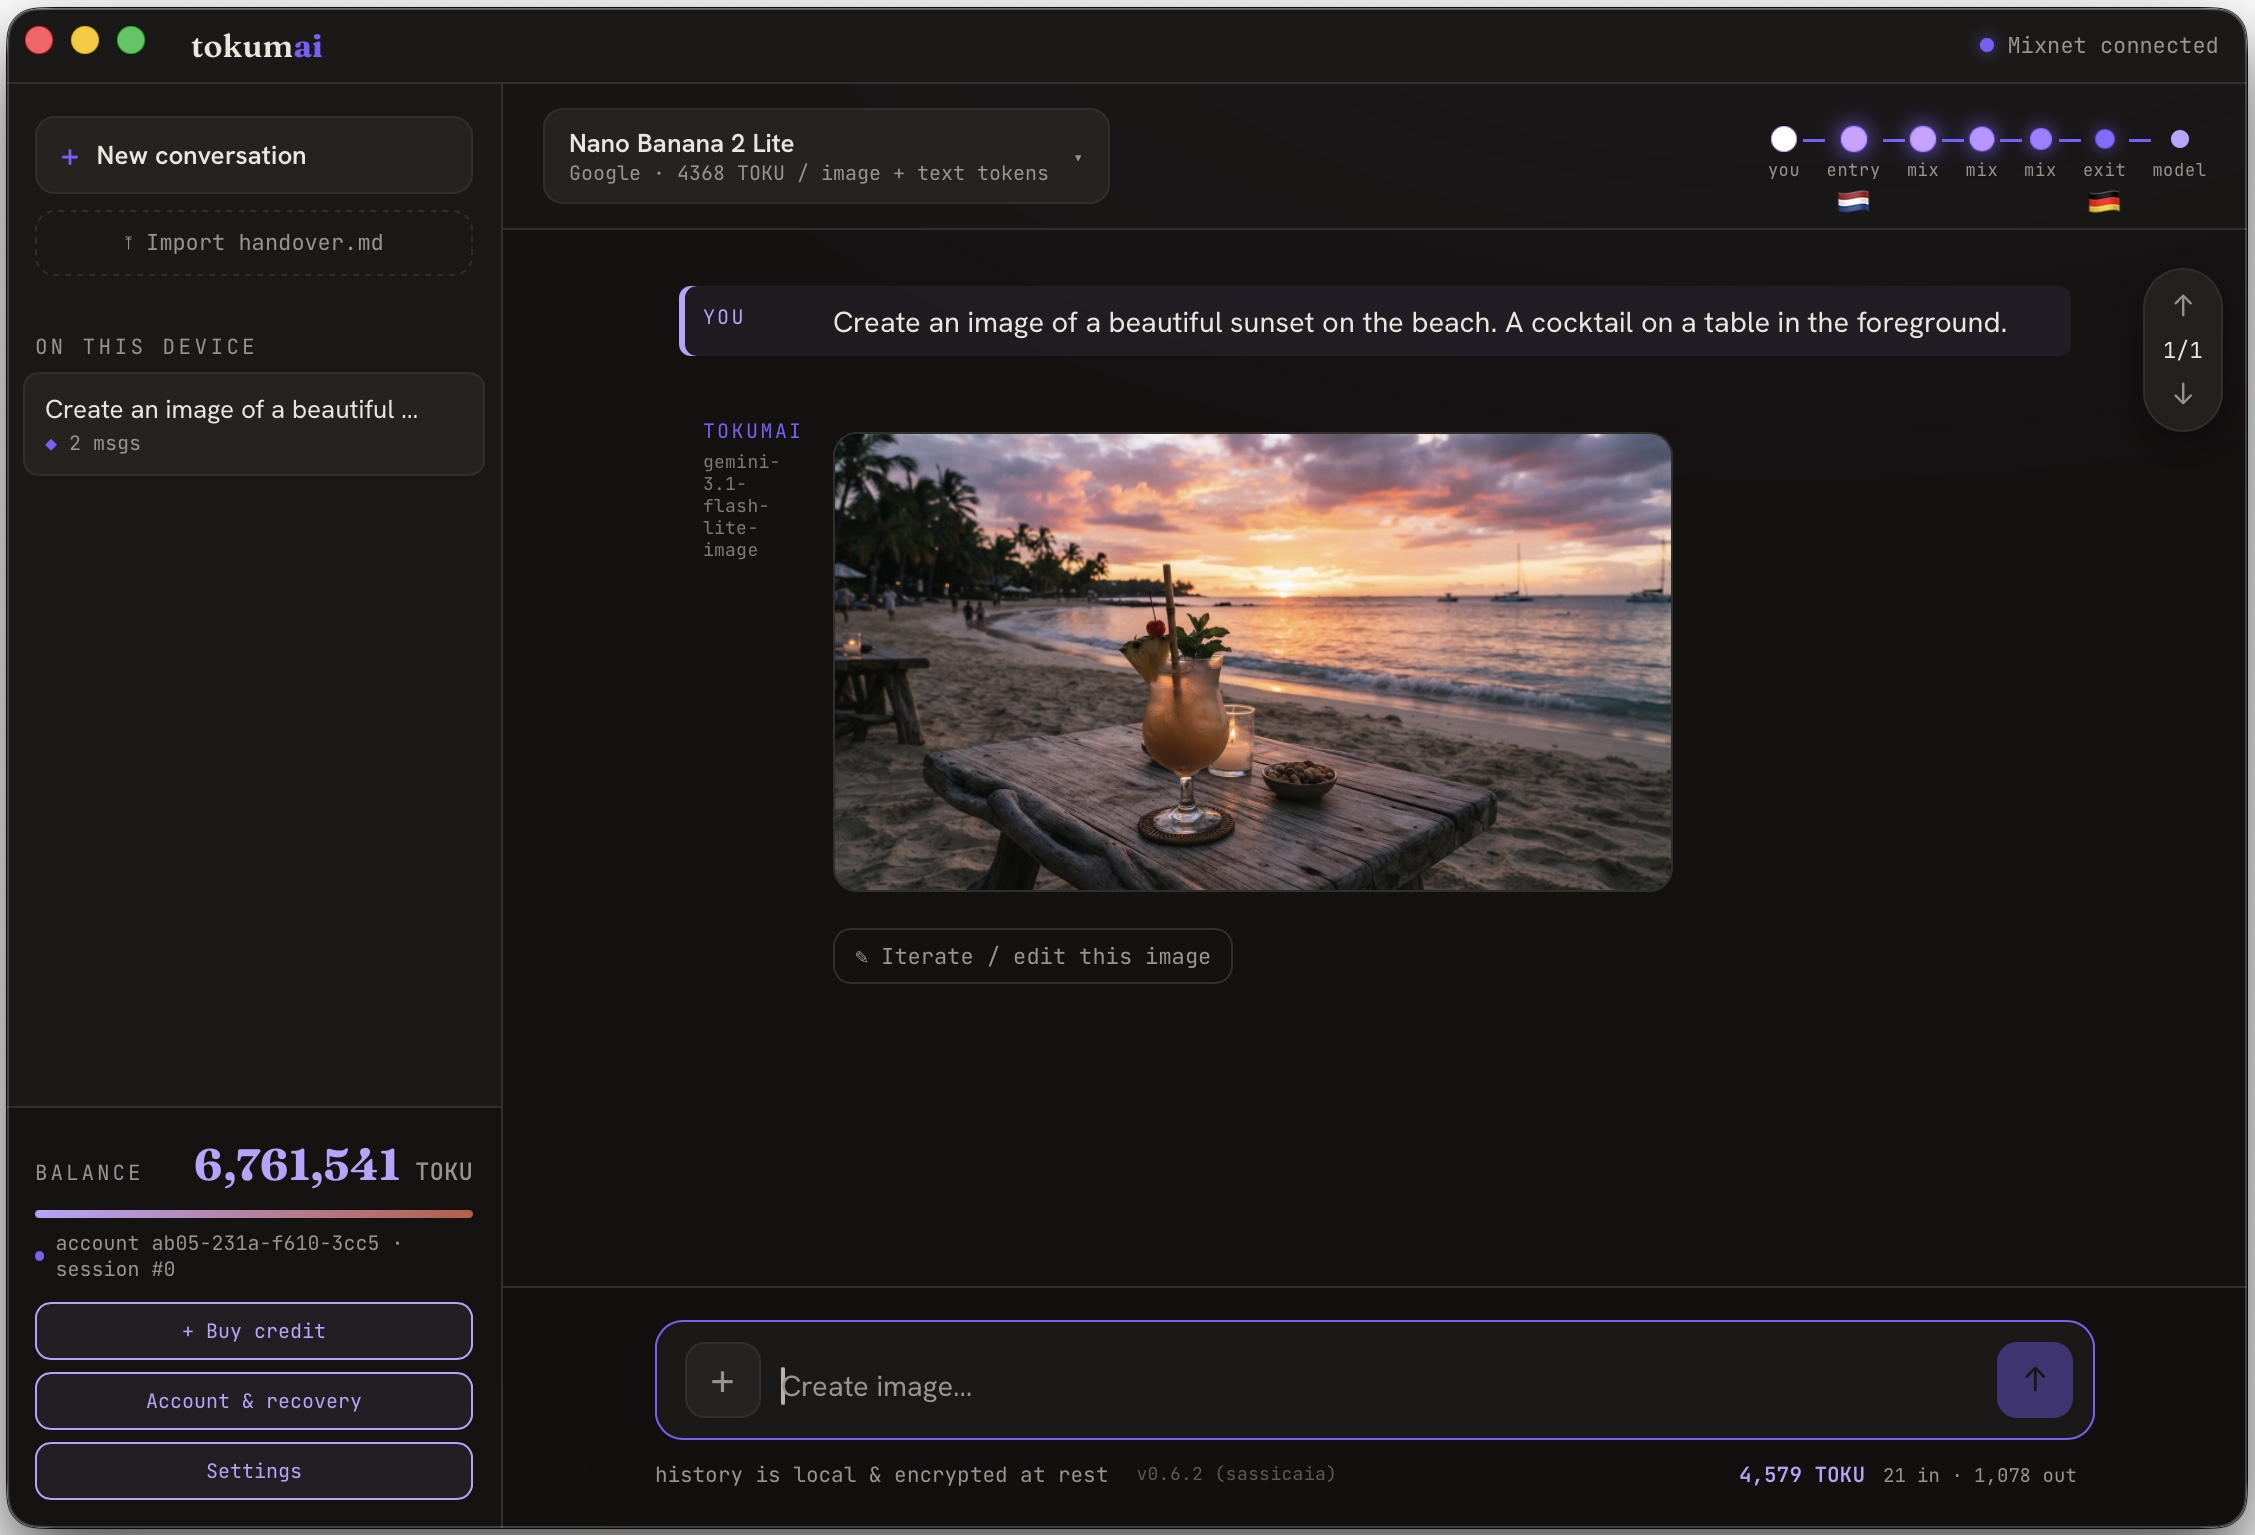
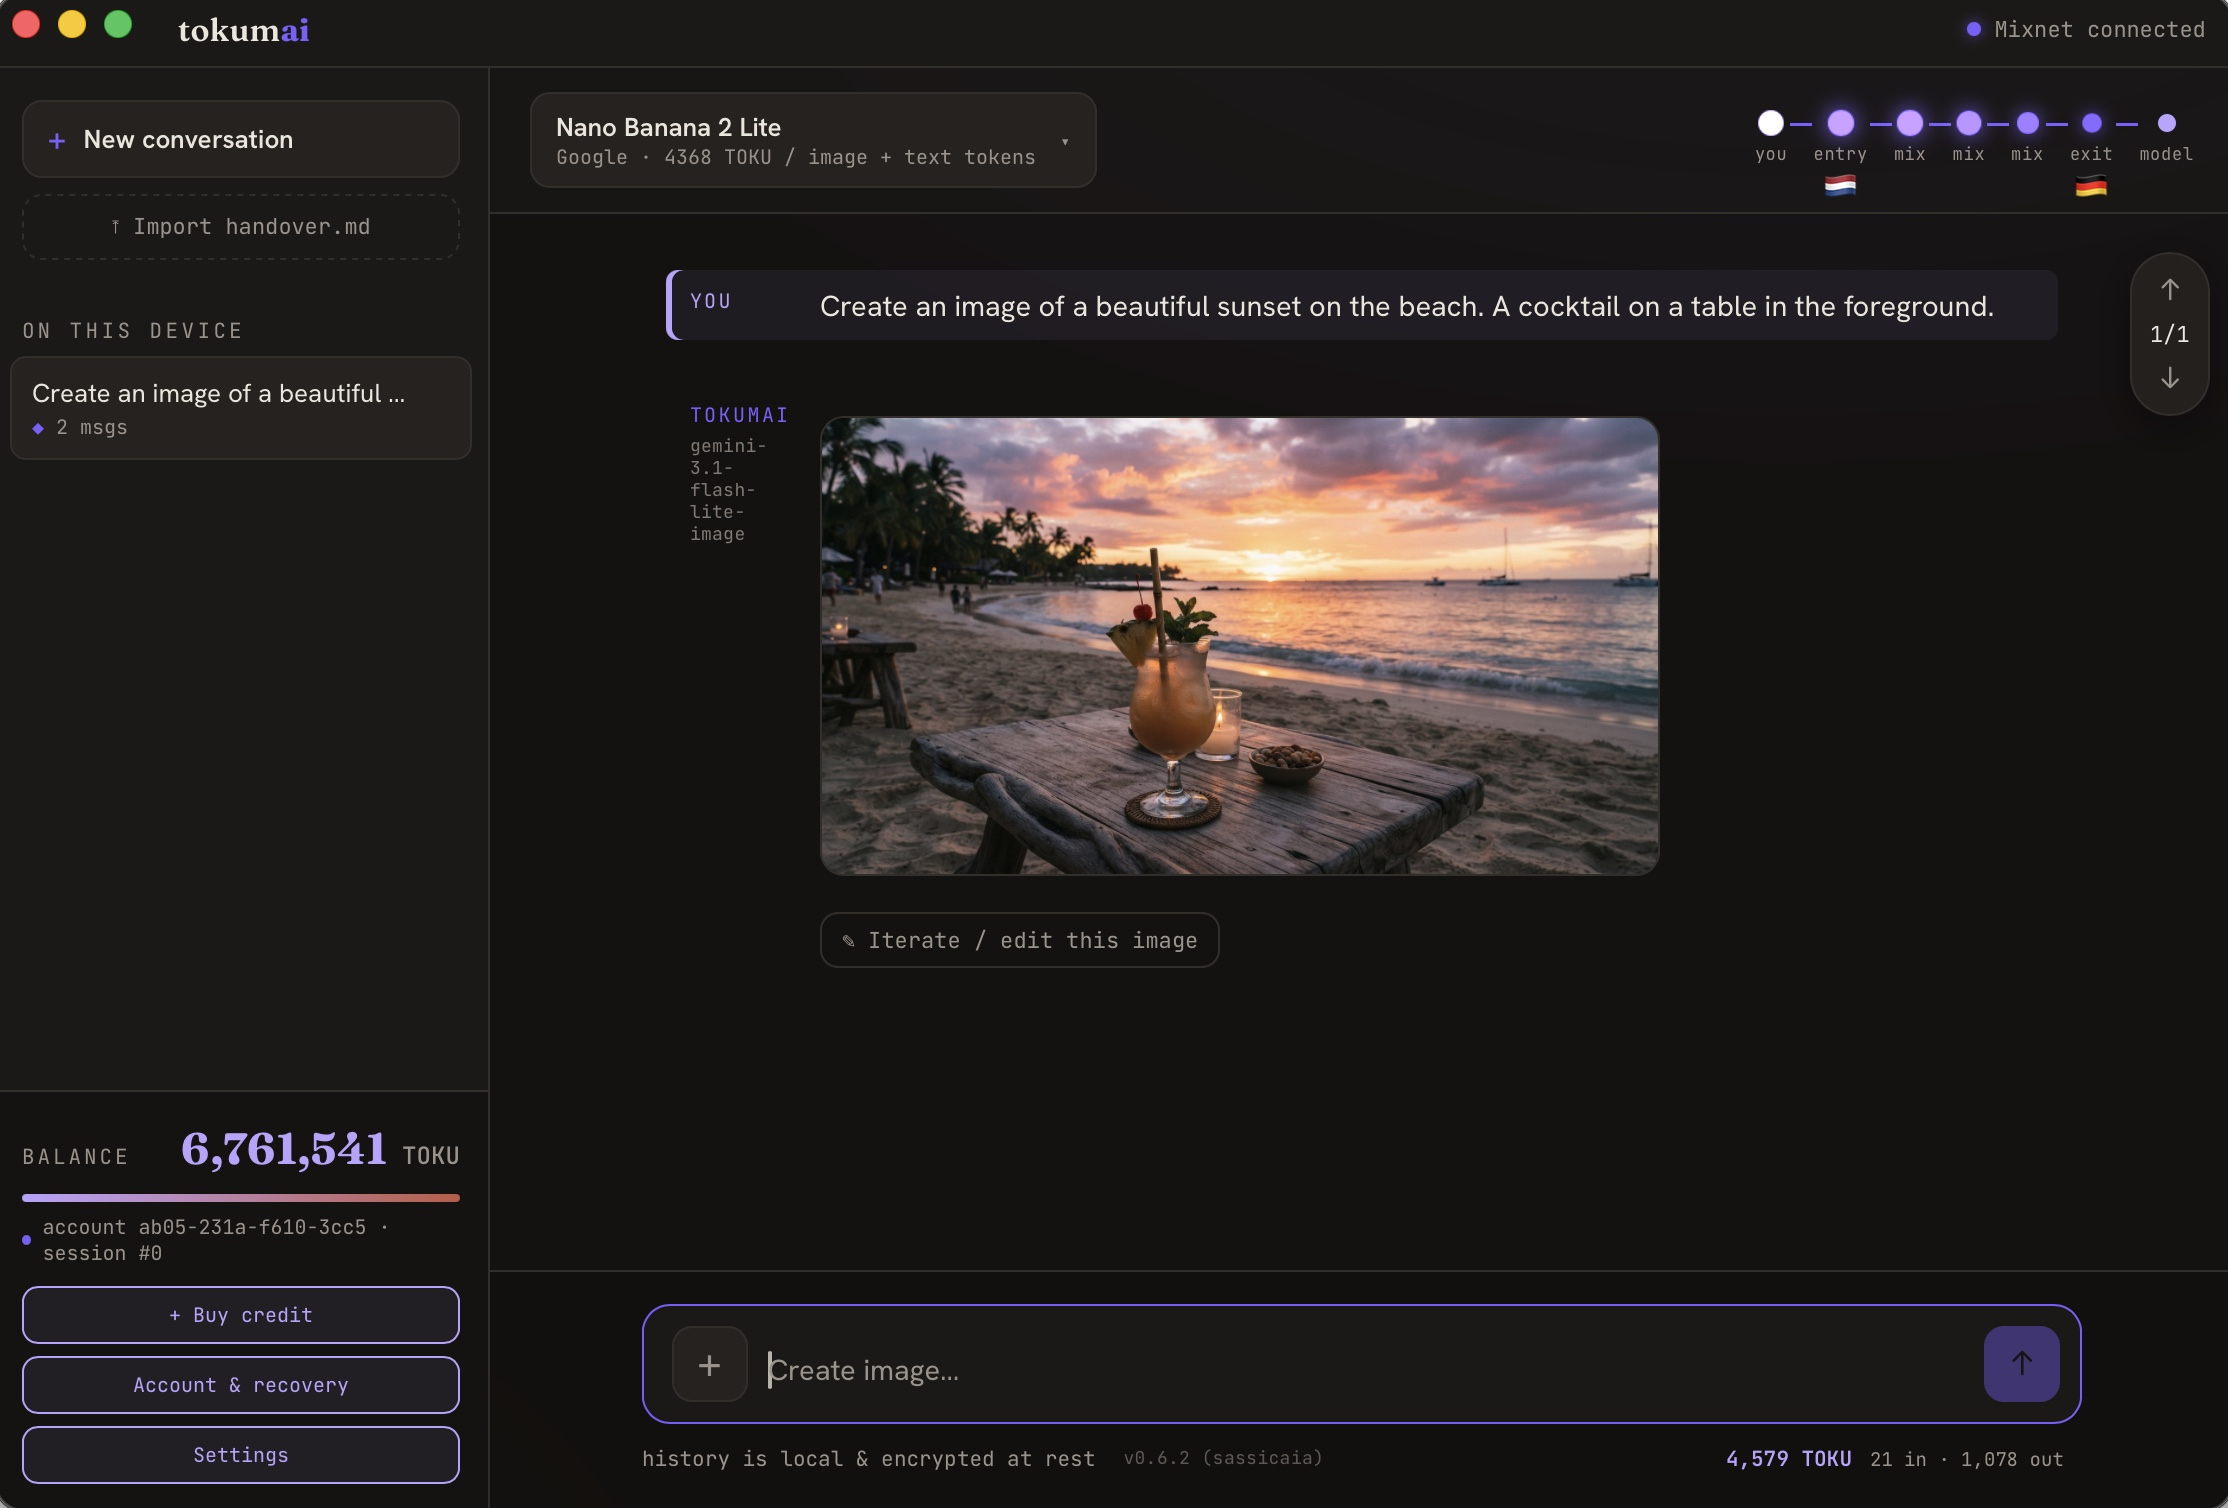
site-mockup: hero window without an extra frame (tighter crop, no border), 'Buy credit' links to tokumai.com/pay
Claude-Session: https://claude.ai/code/session_01Rj9MH4n2dz4HHsBraXK8eT

diff --git a/docs/site-mockup/clickdummy.html b/docs/site-mockup/clickdummy.html
@@ -59,6 +59,7 @@
   .hero p b.k{color:var(--acc)}
   .hero .note{font-size:14.5px;margin:0}
   .shot{border:1px solid var(--line);border-radius:16px;overflow:hidden;background:var(--surface);box-shadow:0 20px 60px rgba(0,0,0,.35)}
+  .hero .shot{border:none;background:transparent;border-radius:14px} .hero .shot img{border-radius:14px;display:block}
   .cta{display:flex;gap:10px;flex-wrap:wrap}
   .btn{display:inline-flex;align-items:center;justify-content:center;min-height:42px;padding:0 18px;border:1px solid var(--line);border-radius:10px;background:var(--surface-2);color:var(--bone);font:600 13.5px var(--body);text-decoration:none;cursor:pointer}
   .btn.primary{background:var(--acc);border-color:var(--acc);color:#fff} .btn.big{min-height:46px;padding:0 22px;font-size:14px}
@@ -175,7 +176,7 @@
   <div class="nav">
     <a class="logo" href="#/"><span class="mark"><svg viewBox="0 0 100 100" width="78%" height="78%" aria-hidden="true"><rect x="19" y="28" width="27" height="9" rx="4.5" fill="#ECE6DC"/><rect x="49" y="28" width="31" height="9" rx="4.5" fill="#7A5FFF"/><rect x="25" y="40" width="17" height="9" rx="4.5" fill="#ECE6DC"/><rect x="45" y="40" width="30" height="9" rx="4.5" fill="#7A5FFF"/><rect x="19" y="52" width="36" height="9" rx="4.5" fill="#ECE6DC"/><rect x="58" y="52" width="20" height="9" rx="4.5" fill="#7A5FFF"/><rect x="28" y="64" width="22" height="9" rx="4.5" fill="#ECE6DC"/><rect x="54" y="64" width="26" height="9" rx="4.5" fill="#7A5FFF"/></svg></span><span>tokum<b>ai</b></span></a>
     <span class="links"><a href="#/how-it-works" data-r="how-it-works">How it works</a><a href="#/pricing" data-r="pricing">Pricing</a><a href="#/download" data-r="download">Download</a><a href="#/compare" data-r="compare">Compare</a></span>
-    <a class="btn primary buy" href="#/pricing">Buy credit</a>
+    <a class="btn primary buy" href="https://tokumai.com/pay">Buy credit</a>
     <div class="sw" role="group" aria-label="Theme"><button type="button" id="bDark" class="on">Dark</button><button type="button" id="bLight">Light</button></div>
   </div>
 

diff --git a/docs/site-mockup/vs-duck-ai.html b/docs/site-mockup/vs-duck-ai.html
@@ -141,7 +141,7 @@
   <div class="nav">
     <span class="logo"><span class="mark"><svg viewBox="0 0 100 100" width="78%" height="78%" aria-hidden="true"><rect x="19" y="28" width="27" height="9" rx="4.5" fill="#ECE6DC"/><rect x="49" y="28" width="31" height="9" rx="4.5" fill="#7A5FFF"/><rect x="25" y="40" width="17" height="9" rx="4.5" fill="#ECE6DC"/><rect x="45" y="40" width="30" height="9" rx="4.5" fill="#7A5FFF"/><rect x="19" y="52" width="36" height="9" rx="4.5" fill="#ECE6DC"/><rect x="58" y="52" width="20" height="9" rx="4.5" fill="#7A5FFF"/><rect x="28" y="64" width="22" height="9" rx="4.5" fill="#ECE6DC"/><rect x="54" y="64" width="26" height="9" rx="4.5" fill="#7A5FFF"/></svg></span><span>tokum<b>ai</b></span></span>
     <span class="links"><a href="#">How it works</a><a href="#">Buy TOKU</a><a href="#">Download</a><a href="#" class="on">Compare</a></span>
-    <a class="btn primary" style="margin-left:auto;min-height:36px;padding:0 14px;font-size:13px" href="#">Buy credit</a>
+    <a class="btn primary" style="margin-left:auto;min-height:36px;padding:0 14px;font-size:13px" href="https://tokumai.com/pay">Buy credit</a>
     <div class="sw" role="group" aria-label="Theme" style="margin-left:0"><button type="button" id="bDark" class="on">Dark</button><button type="button" id="bLight">Light</button></div>
   </div>
 
